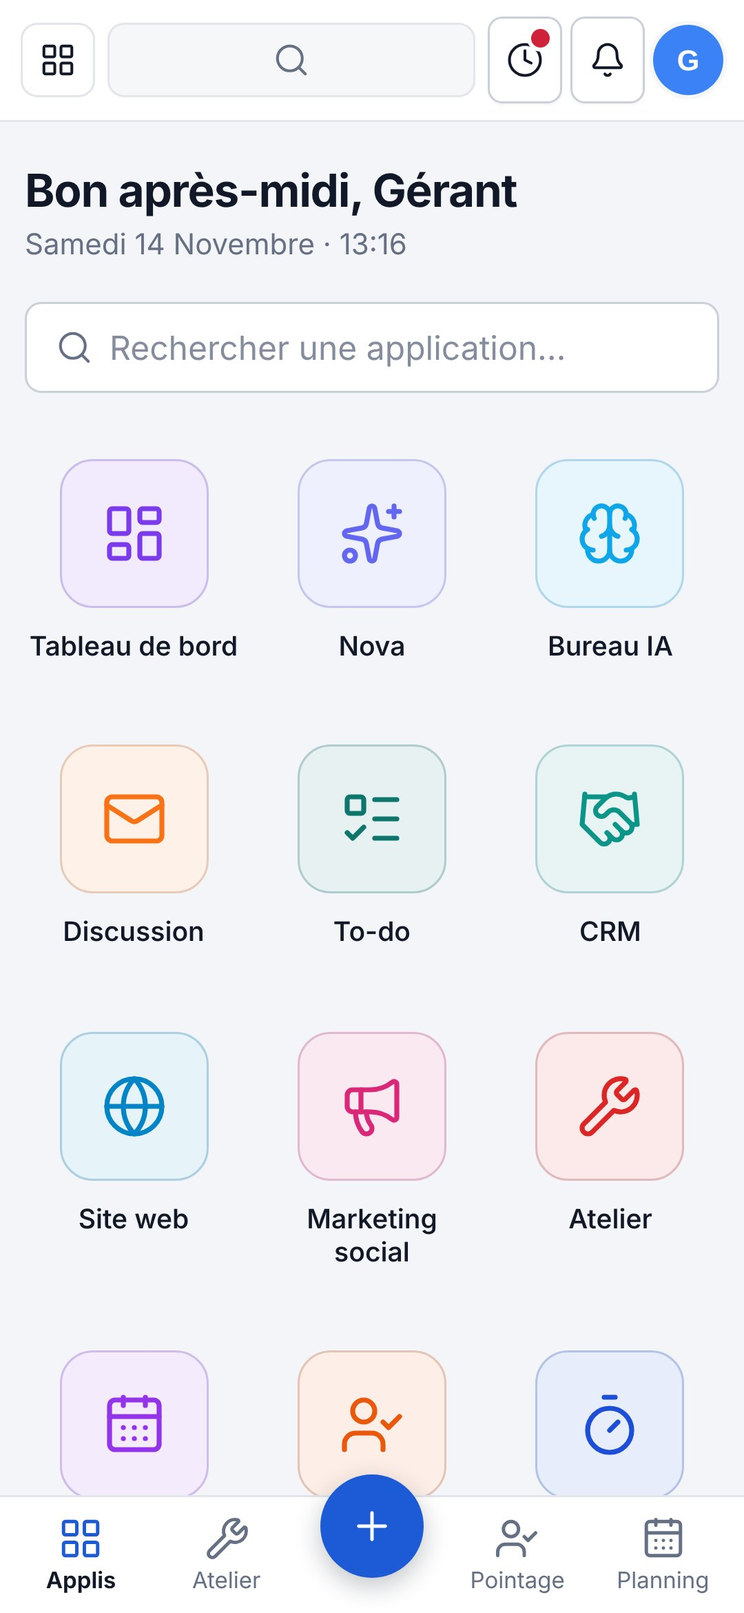
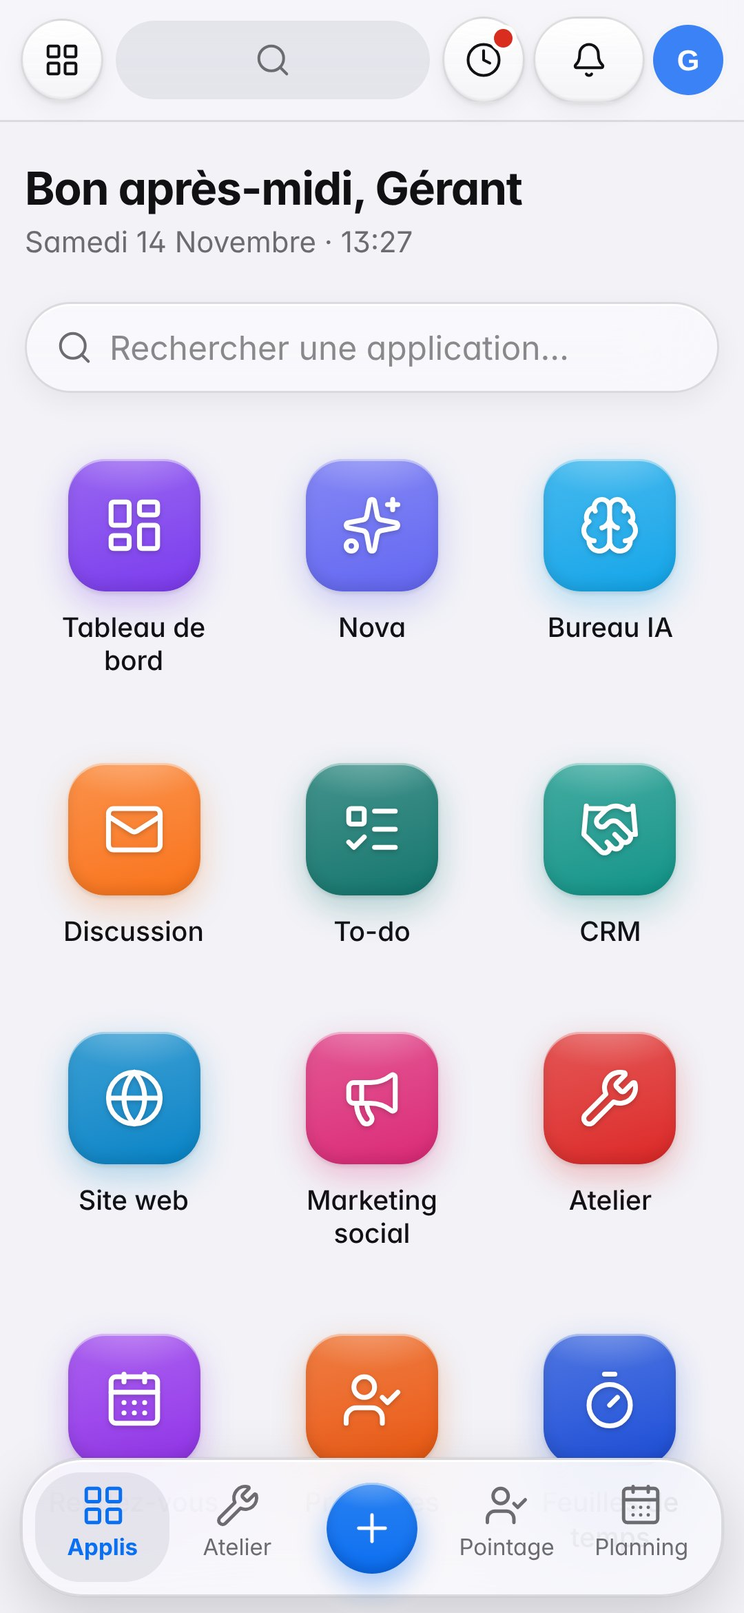
Rendu « iPhone » : boutons en goutte d'eau, menus et barres en verre
- couleurs du système iPhone (fond gris groupé, cartes blanches, bleu)
- boutons en pilule brillants (reflet en haut, ombre douce), boutons ronds
  pour les icônes ; bouton de l'assistant en goutte de verre
- barre du haut, menus déroulants, recherche et messages : verre dépoli
  flottant ; sur téléphone, barre d'onglets flottante
- onglets et choix en segments, interrupteurs verts
- menu des applications : icônes colorées comme sur l'écran d'accueil
- tablette de l'atelier : mêmes boutons, pavé du code PIN en touches rondes
- thème sombre assorti ; le thème « Verre » reste inchangé
- images de la fenêtre d'installation et README à jour

Claude-Session: https://claude.ai/code/session_017Kn8fTkEEiGP4ovVWuXnDD

diff --git a/public/css/app.css b/public/css/app.css
@@ -1,6 +1,6 @@
 /* =====================================================================
-   Garage Manager — design sobre et professionnel
-   Surfaces unies, une seule couleur d'accent, bordures fines, pas d'effets.
+   Garage Manager — design sobre, rendu « iPhone »
+   Fond uni, cartes blanches, un seul bleu ; boutons, barres et menus en verre liquide (voir plus bas).
    Thème clair par défaut, thème sombre disponible (data-theme) ;
    l'habillage « Verre » (data-skin="glass") est défini à part, en fin de fichier.
    ===================================================================== */
@@ -8,47 +8,56 @@
 @font-face { font-family: 'Space Grotesk'; font-style: normal; font-display: swap; font-weight: 300 700; src: url('/vendor/fonts/space-grotesk.woff2') format('woff2-variations'); }
 
 :root, :root[data-theme="light"] {
-  --bg: #f3f5f8; --bg-2: #e9edf2;
-  --panel: #ffffff; --panel-solid: #ffffff; --panel-2: #f6f7f9; --panel-hover: #eef1f5; --field: #ffffff; --btn-bg: #ffffff;
-  --ink: #111827; --ink-2: #374151; --muted: #667085; --line: #e2e6ec; --line-strong: #c9d0da; --soft: #f6f7f9;
-  --brand: #1d5bd6; --brand-2: #1d5bd6; --brand-3: #1d5bd6; --brand-ink: #ffffff; --brand-soft: rgba(29, 91, 214, .09);
-  --accent: #1d5bd6; --accent-hover: #174bb4; /* fond des boutons principaux (texte blanc) */
-  --link: #1a4fbd;
+  /* couleurs du système iPhone : fond gris « groupé », cartes blanches, bleu d'accent */
+  --bg: #f2f2f7; --bg-2: #e5e5ea;
+  --panel: #ffffff; --panel-solid: #ffffff; --panel-2: #f2f2f7; --panel-hover: #e9e9ee; --field: #ffffff; --btn-bg: #ffffff;
+  --ink: #111114; --ink-2: #3a3a3c; --muted: #6c6c70; --line: rgba(60, 60, 67, .14); --line-strong: rgba(60, 60, 67, .28); --soft: #f6f6f9;
+  --brand: #0a6ff0; --brand-2: #0a6ff0; --brand-3: #0a6ff0; --brand-ink: #ffffff; --brand-soft: rgba(10, 111, 240, .10);
+  --accent: #0a6ff0; --accent-hover: #0963d8; /* fond des boutons principaux (texte blanc) */
+  --link: #0066d6;
   --grad: linear-gradient(var(--accent), var(--accent));
-  --grad-soft: linear-gradient(rgba(29, 91, 214, .07), rgba(29, 91, 214, .07));
-  --ok: #15803d; --warn: #b45309; --bad: #d0213b;
-  --glow: 0 0 0 3px rgba(29, 91, 214, .16);
-  --shadow: 0 1px 2px rgba(16, 24, 40, .06);
-  --shadow-lg: 0 20px 48px rgba(16, 24, 40, .18), 0 2px 6px rgba(16, 24, 40, .08);
-  --radius: 10px; --radius-sm: 7px;
-  --side: #ffffff; --side-ink: #4b5563;
+  --grad-soft: linear-gradient(rgba(10, 111, 240, .07), rgba(10, 111, 240, .07));
+  --ok: #1f8a3b; --warn: #b45309; --bad: #d92d20;
+  --glow: 0 0 0 4px rgba(10, 111, 240, .18);
+  --shadow: 0 1px 2px rgba(0, 0, 0, .04), 0 6px 20px rgba(0, 0, 0, .04);
+  --shadow-lg: 0 24px 60px rgba(0, 0, 0, .18), 0 2px 8px rgba(0, 0, 0, .08);
+  --radius: 20px; --radius-sm: 12px;
+  --side: #ffffff; --side-ink: #3a3a3c;
   --aurora-1: transparent; --aurora-2: transparent; --aurora-3: transparent; --grid-line: transparent;
-  --b-gray: #eef1f6; --b-gray-i: #475569; --b-blue: #e0edff; --b-blue-i: #1a4fbd; --b-green: #dcfce7; --b-green-i: #166534;
-  --b-red: #ffe4e6; --b-red-i: #be123c; --b-orange: #ffedd5; --b-orange-i: #c2410c; --b-yellow: #fef3c7; --b-yellow-i: #92400e;
+  --b-gray: #ececf1; --b-gray-i: #48484a; --b-blue: #dbeafe; --b-blue-i: #0057b8; --b-green: #dcfce7; --b-green-i: #166534;
+  --b-red: #ffe4e1; --b-red-i: #b42318; --b-orange: #ffedd5; --b-orange-i: #c2410c; --b-yellow: #fef3c7; --b-yellow-i: #92400e;
   --b-purple: #ede9fe; --b-purple-i: #6d28d9; --b-teal: #ccfbf1; --b-teal-i: #0f766e;
-  --scrim: rgba(17, 24, 39, .45);
-  --font-display: 'Inter', system-ui, -apple-system, "Segoe UI", Roboto, sans-serif;
+  --scrim: rgba(0, 0, 0, .32);
+  /* verre liquide : reflet du haut, bord, ombre intérieure, flou */
+  --glass-hi: rgba(255, 255, 255, .96); --glass-lo: rgba(244, 244, 248, .88); --glass-shine: rgba(255, 255, 255, .95); --glass-edge: rgba(60, 60, 67, .16); --glass-shade: rgba(0, 0, 0, .06);
+  --glass-strong: rgba(250, 250, 252, .78); --bar: rgba(246, 246, 250, .74);
+  --glass-blur: blur(22px) saturate(1.8); --glass-blur-strong: blur(34px) saturate(1.9);
+  --seg: rgba(118, 118, 128, .13); --seg-on: #ffffff; --seg-off: rgba(120, 120, 128, .28);
+  --font-display: -apple-system, BlinkMacSystemFont, 'SF Pro Display', 'Inter', system-ui, "Segoe UI", Roboto, sans-serif;
   color-scheme: light;
 }
 :root[data-theme="dark"] {
-  --bg: #0f1216; --bg-2: #0b0d11;
-  --panel: #171b21; --panel-solid: #171b21; --panel-2: #1d222a; --panel-hover: #252b35; --field: #12161b; --btn-bg: #1d222a;
-  --ink: #e8eaee; --ink-2: #c6cbd3; --muted: #939cab; --line: #272d37; --line-strong: #3a4250; --soft: #1b2027;
-  --brand: #6ea3f7; --brand-2: #6ea3f7; --brand-3: #6ea3f7; --brand-ink: #0a1120; --brand-soft: rgba(110, 163, 247, .14);
-  --accent: #2f6bdb; --accent-hover: #3d78e6;
-  --link: #7fb0fa;
+  --bg: #0a0a0c; --bg-2: #000000;
+  --panel: #1c1c1e; --panel-solid: #1c1c1e; --panel-2: #2a2a2d; --panel-hover: #38383b; --field: #252528; --btn-bg: #2c2c2e;
+  --ink: #f5f5f7; --ink-2: #d1d1d6; --muted: #98989f; --line: rgba(255, 255, 255, .10); --line-strong: rgba(255, 255, 255, .22); --soft: #232326;
+  --brand: #4a9dff; --brand-2: #4a9dff; --brand-3: #4a9dff; --brand-ink: #04101f; --brand-soft: rgba(74, 157, 255, .16);
+  --accent: #0a6ff0; --accent-hover: #2b84ff;
+  --link: #5aa8ff;
   --grad: linear-gradient(var(--accent), var(--accent));
-  --grad-soft: linear-gradient(rgba(110, 163, 247, .10), rgba(110, 163, 247, .10));
-  --ok: #3fcf8e; --warn: #f0b64a; --bad: #f47184;
-  --glow: 0 0 0 3px rgba(110, 163, 247, .22);
-  --shadow: 0 1px 2px rgba(0, 0, 0, .4);
-  --shadow-lg: 0 24px 60px rgba(0, 0, 0, .6);
-  --side: #13171c; --side-ink: #aeb6c2;
-  --b-gray: rgba(148, 163, 184, .16); --b-gray-i: #cbd5e1; --b-blue: rgba(110, 163, 247, .16); --b-blue-i: #9cc2fb;
-  --b-green: rgba(52, 211, 153, .16); --b-green-i: #6ee7b7; --b-red: rgba(251, 113, 133, .16); --b-red-i: #fda4af;
-  --b-orange: rgba(251, 146, 60, .18); --b-orange-i: #fdba74; --b-yellow: rgba(250, 204, 21, .16); --b-yellow-i: #fde68a;
-  --b-purple: rgba(167, 139, 250, .18); --b-purple-i: #c4b5fd; --b-teal: rgba(45, 212, 191, .16); --b-teal-i: #5eead4;
-  --scrim: rgba(0, 0, 0, .6);
+  --grad-soft: linear-gradient(rgba(74, 157, 255, .10), rgba(74, 157, 255, .10));
+  --ok: #30d158; --warn: #ffb340; --bad: #ff6259;
+  --glow: 0 0 0 4px rgba(74, 157, 255, .26);
+  --shadow: 0 1px 2px rgba(0, 0, 0, .5);
+  --shadow-lg: 0 30px 70px rgba(0, 0, 0, .7);
+  --side: #131315; --side-ink: #c7c7cc;
+  --b-gray: rgba(152, 152, 159, .2); --b-gray-i: #d1d1d6; --b-blue: rgba(74, 157, 255, .18); --b-blue-i: #8fc2ff;
+  --b-green: rgba(48, 209, 88, .18); --b-green-i: #6ee7a0; --b-red: rgba(255, 98, 89, .18); --b-red-i: #ffa39e;
+  --b-orange: rgba(255, 159, 10, .2); --b-orange-i: #ffc266; --b-yellow: rgba(255, 214, 10, .18); --b-yellow-i: #ffe066;
+  --b-purple: rgba(191, 90, 242, .2); --b-purple-i: #dba6f7; --b-teal: rgba(64, 200, 224, .18); --b-teal-i: #7fdcee;
+  --scrim: rgba(0, 0, 0, .55);
+  --glass-hi: rgba(72, 72, 76, .92); --glass-lo: rgba(48, 48, 51, .92); --glass-shine: rgba(255, 255, 255, .16); --glass-edge: rgba(255, 255, 255, .14); --glass-shade: rgba(0, 0, 0, .35);
+  --glass-strong: rgba(38, 38, 41, .76); --bar: rgba(22, 22, 24, .72);
+  --seg: rgba(118, 118, 128, .26); --seg-on: #636366; --seg-off: rgba(120, 120, 128, .4);
   color-scheme: dark;
 }
 :root { font-family: 'Inter', system-ui, -apple-system, "Segoe UI", Roboto, sans-serif; font-size: 14px; color: var(--ink); font-feature-settings: 'cv11', 'ss01'; }
@@ -1020,17 +1029,17 @@ table.lines.no-disc .dcol { display: none; }
 .theme-check svg { width: 13px; height: 13px; }
 .theme-prev { position: relative; height: 110px; border-radius: 11px; overflow: hidden; display: flex; border: 1px solid var(--line); }
 .tp-half { position: relative; flex: 1; }
-.tp-dark { background: #0f1216; }
-.tp-light { background: #f3f5f8; }
+.tp-dark { background: #0a0a0c; }
+.tp-light { background: #f2f2f7; }
 .tpv-dark .tp-light, .tpv-light .tp-dark { display: none; }
 .tp-half i { position: absolute; display: block; border-radius: 5px; }
 .tp-bar { left: 0; right: 0; top: 0; height: 14px; border-radius: 0 !important; }
 .tp-side { left: 6px; top: 22px; bottom: 8px; width: 16%; }
 .tp-card { left: 26%; right: 8px; top: 22px; height: 34px; }
 .tp-card.b { top: 62px; height: 38px; right: 42%; }
-.tp-btn { right: 8px; top: 64px; width: 30%; height: 12px; border-radius: 4px !important; background: #1d5bd6; }
+.tp-btn { right: 8px; top: 64px; width: 30%; height: 12px; border-radius: 99px !important; background: #0a6ff0; }
 .tp-dark .tp-bar, .tp-dark .tp-side { background: rgba(255, 255, 255, .06); }
-.tp-dark .tp-card { background: #171b21; border: 1px solid #272d37; }
+.tp-dark .tp-card { background: #1c1c1e; border: 1px solid #2c2c2e; }
 .tp-light .tp-bar, .tp-light .tp-side { background: rgba(255, 255, 255, .8); }
 .tp-light .tp-card { background: #fff; box-shadow: 0 3px 10px rgba(30, 50, 100, .12); }
 @media (max-width: 700px) { .theme-picker { grid-template-columns: 1fr; } .theme-prev { height: 90px; } }
@@ -1390,6 +1399,167 @@ label.btn { display: inline-flex; gap: 6px; align-items: center; margin: 0; font
   :root:not([data-skin]) .modal, :root:not([data-skin]) .modal.wide, :root:not([data-skin]) .search-box { border-radius: 0; }
   :root:not([data-skin]) .modal-foot { border-radius: 0; }
   :root:not([data-skin]) table.stackable tr { border-radius: 8px; }
+}
+
+/* =====================================================================
+   Rendu « iPhone » (verre liquide) : boutons en pilule brillants comme une
+   goutte d'eau, barres et menus flottants translucides, onglets en
+   segments, interrupteurs verts. S'applique aux thèmes clair et sombre
+   (le thème « Verre » garde son propre habillage).
+   Le flou d'arrière-plan n'est utilisé que sur les barres, menus et
+   éléments flottants : les nombreux boutons d'une page restent légers.
+   ===================================================================== */
+:root:not([data-skin]) { font-family: -apple-system, BlinkMacSystemFont, 'SF Pro Text', 'Inter', system-ui, "Segoe UI", Roboto, sans-serif; }
+
+/* --- Boutons : pilules de verre --- */
+:root:not([data-skin]) .btn { border-radius: 999px; padding: 9px 17px; font-weight: 600; color: var(--ink); border: 1px solid var(--glass-edge);
+  background: radial-gradient(130% 90% at 50% -20%, var(--glass-shine), transparent 62%), linear-gradient(180deg, var(--glass-hi), var(--glass-lo));
+  box-shadow: inset 0 1px 0 var(--glass-shine), inset 0 -1px 1px var(--glass-shade), 0 1px 2px rgba(0, 0, 0, .07), 0 4px 12px rgba(0, 0, 0, .05);
+  transition: transform .16s cubic-bezier(.3, .7, .4, 1), box-shadow .16s, filter .16s; }
+:root:not([data-skin]) .btn:hover { background: radial-gradient(130% 90% at 50% -20%, var(--glass-shine), transparent 62%), linear-gradient(180deg, var(--glass-hi), var(--glass-lo)); filter: brightness(1.04); box-shadow: inset 0 1px 0 var(--glass-shine), inset 0 -1px 1px var(--glass-shade), 0 2px 4px rgba(0, 0, 0, .08), 0 8px 20px rgba(0, 0, 0, .08); }
+:root:not([data-skin]) .btn:active { transform: scale(.96); filter: brightness(.97); }
+:root:not([data-skin]) .btn.sm { border-radius: 999px; padding: 5px 12px; }
+:root:not([data-skin]) .btn.big { padding: 13px 22px; }
+:root:not([data-skin]) .btn.primary { color: #fff; border-color: color-mix(in srgb, var(--accent) 70%, #000 8%);
+  background: radial-gradient(130% 90% at 50% -25%, rgba(255, 255, 255, .42), transparent 60%), linear-gradient(180deg, color-mix(in srgb, var(--accent) 90%, #fff), var(--accent));
+  box-shadow: inset 0 1px 0 rgba(255, 255, 255, .5), inset 0 -2px 3px rgba(0, 30, 90, .22), 0 1px 2px rgba(0, 50, 130, .3), 0 6px 16px color-mix(in srgb, var(--accent) 34%, transparent); }
+:root:not([data-skin]) .btn.primary:hover { background: radial-gradient(130% 90% at 50% -25%, rgba(255, 255, 255, .42), transparent 60%), linear-gradient(180deg, color-mix(in srgb, var(--accent) 90%, #fff), var(--accent)); border-color: color-mix(in srgb, var(--accent) 70%, #000 8%); filter: brightness(1.06); box-shadow: inset 0 1px 0 rgba(255, 255, 255, .5), inset 0 -2px 3px rgba(0, 30, 90, .22), 0 2px 4px rgba(0, 50, 130, .3), 0 10px 24px color-mix(in srgb, var(--accent) 40%, transparent); }
+:root:not([data-skin]) .btn.success, :root:not([data-skin]) .won-btn { color: #fff; border-color: #1c7c35 !important;
+  background: radial-gradient(130% 90% at 50% -25%, rgba(255, 255, 255, .4), transparent 60%), linear-gradient(180deg, #2fa24f, #1f8a3b) !important;
+  box-shadow: inset 0 1px 0 rgba(255, 255, 255, .45), inset 0 -2px 3px rgba(0, 60, 20, .22), 0 6px 16px rgba(31, 138, 59, .28); }
+:root:not([data-skin]) .btn.success:hover { filter: brightness(1.06); }
+:root:not([data-skin]) .btn.danger { color: var(--bad); }
+:root:not([data-skin]) .btn.danger:hover { background: radial-gradient(130% 90% at 50% -20%, var(--glass-shine), transparent 62%), linear-gradient(180deg, var(--glass-hi), var(--glass-lo)); border-color: color-mix(in srgb, var(--bad) 45%, transparent); }
+:root:not([data-skin]) .btn:disabled { filter: none; transform: none; }
+/* boutons ronds (une seule icône) */
+:root:not([data-skin]) .apps-btn, :root:not([data-skin]) .theme-toggle, :root:not([data-skin]) .att-sys-btn { border-radius: 50%; width: 40px; height: 40px; padding: 0; justify-content: center; }
+:root:not([data-skin]) .apps-btn { border: 1px solid var(--glass-edge); background: radial-gradient(130% 90% at 50% -20%, var(--glass-shine), transparent 62%), linear-gradient(180deg, var(--glass-hi), var(--glass-lo)); box-shadow: inset 0 1px 0 var(--glass-shine), inset 0 -1px 1px var(--glass-shade), 0 1px 2px rgba(0, 0, 0, .07), 0 4px 12px rgba(0, 0, 0, .05); }
+:root:not([data-skin]) .icon-btn { border-radius: 50%; min-width: 30px; min-height: 30px; }
+:root:not([data-skin]) .wt-go { border-radius: 50%; }
+:root:not([data-skin]) .user-btn { border-radius: 50%; }
+
+/* --- Champs --- */
+:where(:root:not([data-skin])) input, :where(:root:not([data-skin])) select, :where(:root:not([data-skin])) textarea { border-radius: 12px; }
+:where(:root:not([data-skin])) input[type=checkbox] { border-radius: 4px; }
+:root:not([data-skin]) .search-trigger { border-radius: 999px; background: var(--seg); border-color: transparent; padding: 9px 15px; }
+:root:not([data-skin]) .home-search { border-radius: 999px; background: var(--glass-strong); backdrop-filter: var(--glass-blur); -webkit-backdrop-filter: var(--glass-blur); border-color: var(--glass-edge); box-shadow: inset 0 1px 0 var(--glass-shine), 0 4px 14px rgba(0, 0, 0, .06); }
+
+/* --- Barres : verre dépoli au-dessus du contenu qui défile --- */
+:root:not([data-skin]) .topbar { background: var(--bar); backdrop-filter: var(--glass-blur); -webkit-backdrop-filter: var(--glass-blur); border-bottom: 1px solid var(--line); }
+:root:not([data-skin]) .sidebar { background: var(--bar); backdrop-filter: var(--glass-blur); -webkit-backdrop-filter: var(--glass-blur); }
+:root:not([data-skin]) .sidebar nav a, :root:not([data-skin]) .sidebar nav a.active { border-radius: 12px; }
+/* menus d'une application : un contrôle segmenté */
+:root:not([data-skin]) .app-menus { background: var(--seg); border-radius: 999px; padding: 3px; gap: 1px; }
+:root:not([data-skin]) .app-menus a { border-radius: 999px; padding: 6px 13px; color: var(--ink-2); }
+:root:not([data-skin]) .app-menus a:hover { background: transparent; color: var(--ink); }
+:root:not([data-skin]) .app-menus a.active { background: var(--seg-on); color: var(--ink); font-weight: 600; box-shadow: 0 1px 3px rgba(0, 0, 0, .14), 0 0 0 .5px rgba(0, 0, 0, .05); }
+:root:not([data-skin]) .app-mini { border-radius: 9px; background: linear-gradient(160deg, color-mix(in srgb, var(--c1) 80%, #fff), var(--c1)); box-shadow: inset 0 1px 0 rgba(255, 255, 255, .35); }
+
+/* --- Onglets, segments, puces --- */
+:root:not([data-skin]) .tabs { display: inline-flex; max-width: 100%; border-bottom: 0; background: var(--seg); border-radius: 12px; padding: 3px; gap: 2px; }
+:root:not([data-skin]) .tabs button { border: 0; border-radius: 9px; margin: 0; padding: 7px 14px; color: var(--ink-2); }
+:root:not([data-skin]) .tabs button.active { background: var(--seg-on); color: var(--ink); border: 0; border-image: none; font-weight: 600; box-shadow: 0 1px 3px rgba(0, 0, 0, .14), 0 0 0 .5px rgba(0, 0, 0, .05); }
+:root:not([data-skin]) .seg { border: 0; background: var(--seg); border-radius: 10px; padding: 2px; gap: 2px; overflow: visible; }
+:root:not([data-skin]) .seg button { border-radius: 8px; color: var(--ink-2); }
+:root:not([data-skin]) .seg button.on { background: var(--seg-on); color: var(--ink); box-shadow: 0 1px 3px rgba(0, 0, 0, .14), 0 0 0 .5px rgba(0, 0, 0, .05); }
+:root:not([data-skin]) .wt-chips { background: var(--seg); border-radius: 999px; padding: 2px; gap: 2px; }
+:root:not([data-skin]) .wt-chips button { border: 0; background: transparent; color: var(--ink-2); }
+:root:not([data-skin]) .wt-chips button.on { background: var(--seg-on); color: var(--ink); box-shadow: 0 1px 3px rgba(0, 0, 0, .14), 0 0 0 .5px rgba(0, 0, 0, .05); }
+:root:not([data-skin]) .st-targets button { border-color: transparent; background: var(--seg); color: var(--ink-2); }
+:root:not([data-skin]) .st-targets button.on { background: var(--accent); color: #fff; }
+:root:not([data-skin]) .st-targets button.on .badge { background: rgba(255, 255, 255, .25); color: #fff; }
+:root:not([data-skin]) .stepper a, :root:not([data-skin]) .stepper span { border-color: transparent; background: var(--seg); }
+:root:not([data-skin]) .stepper .cur { background: var(--accent); color: #fff; }
+
+/* --- Interrupteurs comme sur iPhone --- */
+:root:not([data-skin]) .switch { width: 51px; height: 31px; }
+:root:not([data-skin]) .switch i { background: var(--seg-off); transition: background .25s; }
+:root:not([data-skin]) .switch i::after { top: 2px; left: 2px; width: 27px; height: 27px; box-shadow: 0 3px 8px rgba(0, 0, 0, .15), 0 1px 1px rgba(0, 0, 0, .16), 0 0 0 .5px rgba(0, 0, 0, .04); transition: transform .25s cubic-bezier(.3, .7, .4, 1); }
+:root:not([data-skin]) .switch input:checked + i { background: #34c759; }
+:root:not([data-skin]) .switch input:checked + i::after { transform: translateX(20px); }
+
+/* --- Cartes --- */
+:root:not([data-skin]) .card, :root:not([data-skin]) .kpi { border-radius: var(--radius); border-color: transparent; box-shadow: var(--shadow); }
+:root:not([data-skin]) .kcol { border-radius: 20px; border-color: transparent; }
+:root:not([data-skin]) .kcard { border-radius: 14px; }
+:root:not([data-skin]) .brief { border-left: 0; }
+:root:not([data-skin]) th:first-child { border-top-left-radius: 12px; border-bottom-left-radius: 12px; } :root:not([data-skin]) th:last-child { border-top-right-radius: 12px; border-bottom-right-radius: 12px; }
+:root:not([data-skin]) th { border-bottom-color: transparent; }
+
+/* --- Menus et fenêtres : feuilles de verre flottantes --- */
+:root:not([data-skin]) .dropdown, :root:not([data-skin]) .picker-list { background: var(--glass-strong); backdrop-filter: var(--glass-blur-strong); -webkit-backdrop-filter: var(--glass-blur-strong); border: 1px solid var(--glass-edge); border-radius: 18px; padding: 6px; box-shadow: inset 0 1px 0 var(--glass-shine), 0 18px 50px rgba(0, 0, 0, .2), 0 0 0 .5px rgba(0, 0, 0, .06); }
+:root:not([data-skin]) .dropdown a, :root:not([data-skin]) .picker-list div { border-radius: 12px; padding: 10px 12px; }
+:root:not([data-skin]) .dropdown a:hover { background: var(--seg); }
+:root:not([data-skin]) .picker-list div.hi, :root:not([data-skin]) .picker-list div:hover { background: var(--accent); color: #fff; }
+:root:not([data-skin]) .modal-bg { backdrop-filter: blur(10px) saturate(1.2); -webkit-backdrop-filter: blur(10px) saturate(1.2); }
+:root:not([data-skin]) .modal { border-radius: 26px; border-color: var(--glass-edge); box-shadow: var(--shadow-lg); }
+:root:not([data-skin]) .modal-foot { border-radius: 0 0 26px 26px; background: transparent; }
+:root:not([data-skin]) .search-box { border-radius: 24px; background: var(--glass-strong); backdrop-filter: var(--glass-blur-strong); -webkit-backdrop-filter: var(--glass-blur-strong); border: 1px solid var(--glass-edge); }
+:root:not([data-skin]) .sr { border-radius: 12px; }
+:root:not([data-skin]) .toast { border-radius: 18px; border: 1px solid var(--glass-edge); border-left: 1px solid var(--glass-edge); background: var(--glass-strong); backdrop-filter: var(--glass-blur-strong); -webkit-backdrop-filter: var(--glass-blur-strong); box-shadow: inset 0 1px 0 var(--glass-shine), 0 12px 34px rgba(0, 0, 0, .18); padding: 12px 16px 12px 34px; position: relative; }
+:root:not([data-skin]) .toast::before { content: ''; position: absolute; left: 14px; top: 50%; width: 10px; height: 10px; margin-top: -5px; border-radius: 50%; background: #34c759; }
+:root:not([data-skin]) .toast.error::before { background: #ff3b30; }
+:root:not([data-skin]) .login-card { border-radius: 28px; border-color: var(--glass-edge); }
+:root:not([data-skin]) .login-logo { border-radius: 18px; background: radial-gradient(130% 90% at 50% -25%, rgba(255, 255, 255, .45), transparent 60%), linear-gradient(180deg, color-mix(in srgb, var(--accent) 88%, #fff), var(--accent)); box-shadow: inset 0 1px 0 rgba(255, 255, 255, .5), 0 8px 20px color-mix(in srgb, var(--accent) 35%, transparent); }
+:root:not([data-skin]) .brand-logo { border-radius: 11px; background: linear-gradient(180deg, color-mix(in srgb, var(--accent) 88%, #fff), var(--accent)); box-shadow: inset 0 1px 0 rgba(255, 255, 255, .45); }
+:root:not([data-skin]) .install-hint { border-radius: 20px; }
+:root:not([data-skin]) .badge { border-radius: 999px; }
+:root:not([data-skin]) .dropzone, :root:not([data-skin]) .st-zone, :root:not([data-skin]) .st-edit, :root:not([data-skin]) .st-item { border-radius: 16px; }
+
+/* --- Assistant : une goutte de verre --- */
+:root:not([data-skin]) .copilot-orb { width: 56px; height: 56px; border: 1px solid rgba(255, 255, 255, .55);
+  background: radial-gradient(circle at 32% 24%, rgba(255, 255, 255, .95), rgba(255, 255, 255, .25) 30%, transparent 55%), linear-gradient(160deg, color-mix(in srgb, var(--accent) 70%, #fff), var(--accent));
+  box-shadow: inset 0 1px 1px rgba(255, 255, 255, .8), inset 0 -8px 14px rgba(0, 30, 110, .28), 0 2px 4px rgba(0, 40, 120, .25), 0 12px 30px color-mix(in srgb, var(--accent) 42%, transparent); transition: transform .2s cubic-bezier(.3, .7, .4, 1); }
+:root:not([data-skin]) .copilot-orb:hover { transform: scale(1.06); background: radial-gradient(circle at 32% 24%, rgba(255, 255, 255, .95), rgba(255, 255, 255, .25) 30%, transparent 55%), linear-gradient(160deg, color-mix(in srgb, var(--accent) 70%, #fff), var(--accent)); }
+:root:not([data-skin]) .copilot-orb:active { transform: scale(.95); }
+:root:not([data-skin]) .copilot-orb .icon { filter: drop-shadow(0 1px 1px rgba(0, 30, 100, .4)); }
+:root:not([data-skin]) .copilot-orb.listening { background: radial-gradient(circle at 32% 24%, rgba(255, 255, 255, .95), rgba(255, 255, 255, .25) 30%, transparent 55%), linear-gradient(160deg, #ff7a70, #ff3b30); }
+:root:not([data-skin]) .copilot-panel { border-radius: 26px; border-color: var(--glass-edge); }
+:root:not([data-skin]) .mini-orb { background: radial-gradient(circle at 32% 24%, rgba(255, 255, 255, .9), transparent 50%), linear-gradient(160deg, color-mix(in srgb, var(--accent) 65%, #fff), var(--accent)); color: #fff; box-shadow: inset 0 -3px 6px rgba(0, 30, 110, .25); }
+:root:not([data-skin]) .mic { box-shadow: inset 0 1px 0 var(--glass-shine); }
+
+/* --- Menu des applications : icônes comme sur l'écran d'accueil d'un iPhone --- */
+:root:not([data-skin]) .app-icon { width: 76px; height: 76px; border-radius: 22px; border: 0;
+  background: radial-gradient(120% 80% at 50% -20%, rgba(255, 255, 255, .38), transparent 60%), linear-gradient(165deg, color-mix(in srgb, var(--c1) 78%, #fff), var(--c1));
+  box-shadow: inset 0 1px 0 rgba(255, 255, 255, .45), inset 0 -3px 6px rgba(0, 0, 0, .1), 0 6px 16px color-mix(in srgb, var(--c1) 28%, transparent), 0 1px 2px rgba(0, 0, 0, .12); transition: transform .18s cubic-bezier(.3, .7, .4, 1), box-shadow .18s; }
+:root:not([data-skin]) .app-icon .icon, :root:not([data-skin]) .app-icon svg { color: #fff; width: 36px; height: 36px; stroke-width: 1.9; filter: drop-shadow(0 1px 1px rgba(0, 0, 0, .18)); }
+:root:not([data-skin]) .app-tile:hover .app-icon { transform: scale(1.06); border: 0; box-shadow: inset 0 1px 0 rgba(255, 255, 255, .45), inset 0 -3px 6px rgba(0, 0, 0, .1), 0 12px 26px color-mix(in srgb, var(--c1) 36%, transparent), 0 1px 2px rgba(0, 0, 0, .12); }
+:root:not([data-skin]) .app-tile:active .app-icon { transform: scale(.94); filter: brightness(.92); }
+:root:not([data-skin]) .home.custom .app-icon { background: radial-gradient(120% 80% at 50% -20%, rgba(255, 255, 255, .38), transparent 60%), linear-gradient(165deg, color-mix(in srgb, var(--c1) 78%, #fff), var(--c1)); }
+
+/* --- Présences : gros bouton rond brillant --- */
+:root:not([data-skin]) .att-btn.in { background: radial-gradient(120% 80% at 50% -15%, rgba(255, 255, 255, .5), transparent 58%), linear-gradient(180deg, #3bc45f, #1f8a3b); box-shadow: inset 0 2px 1px rgba(255, 255, 255, .5), inset 0 -10px 18px rgba(0, 60, 20, .25), 0 14px 34px rgba(31, 138, 59, .35); }
+:root:not([data-skin]) .att-btn.out { background: radial-gradient(120% 80% at 50% -15%, rgba(255, 255, 255, .5), transparent 58%), linear-gradient(180deg, #ff6a5e, #d92d20); box-shadow: inset 0 2px 1px rgba(255, 255, 255, .5), inset 0 -10px 18px rgba(110, 10, 0, .25), 0 14px 34px rgba(217, 45, 32, .35); }
+:root:not([data-skin]) .att-btn:hover { transform: scale(1.03); filter: none; }
+:root:not([data-skin]) .att-btn:active { transform: scale(.96); }
+:root:not([data-skin]) .att-btn.sm { border-radius: 999px; box-shadow: inset 0 1px 0 rgba(255, 255, 255, .45); }
+:root:not([data-skin]) .att-stats div { border-radius: 16px; border-color: transparent; background: var(--seg); }
+
+/* --- Téléphone : barre d'onglets flottante en verre, comme sur iPhone --- */
+@media (max-width: 800px) {
+  :root:not([data-skin]) body { padding-bottom: calc(86px + env(safe-area-inset-bottom)); }
+  :root:not([data-skin]) .bottom-nav { left: 10px; right: 10px; bottom: calc(8px + env(safe-area-inset-bottom)); padding: 6px 6px; border-radius: 30px; border: 1px solid var(--glass-edge);
+    background: var(--glass-strong); backdrop-filter: var(--glass-blur-strong); -webkit-backdrop-filter: var(--glass-blur-strong);
+    box-shadow: inset 0 1px 0 var(--glass-shine), 0 10px 30px rgba(0, 0, 0, .16), 0 0 0 .5px rgba(0, 0, 0, .05); }
+  :root:not([data-skin]) .bottom-nav a { border-radius: 22px; padding: 5px 0 4px; }
+  :root:not([data-skin]) .bottom-nav a.active { color: var(--brand); background: var(--seg); }
+  :root:not([data-skin]) .bottom-nav a.active .icon { color: var(--brand); }
+  :root:not([data-skin]) .bottom-nav a.plus .plus-btn { margin-top: 0; width: 44px; height: 44px; border-radius: 50%;
+    background: radial-gradient(130% 90% at 50% -25%, rgba(255, 255, 255, .45), transparent 60%), linear-gradient(180deg, color-mix(in srgb, var(--accent) 88%, #fff), var(--accent));
+    box-shadow: inset 0 1px 0 rgba(255, 255, 255, .5), inset 0 -3px 5px rgba(0, 30, 90, .22), 0 6px 14px color-mix(in srgb, var(--accent) 36%, transparent); }
+  :root:not([data-skin]) .plus-menu { backdrop-filter: blur(8px); -webkit-backdrop-filter: blur(8px); }
+  :root:not([data-skin]) .plus-menu > div { bottom: calc(92px + env(safe-area-inset-bottom)); border-radius: 26px; background: var(--glass-strong); backdrop-filter: var(--glass-blur-strong); -webkit-backdrop-filter: var(--glass-blur-strong); border: 1px solid var(--glass-edge); }
+  :root:not([data-skin]) .plus-menu a { border-radius: 18px; border-color: transparent; background: var(--seg); }
+  :root:not([data-skin]) .toasts { bottom: calc(96px + env(safe-area-inset-bottom)); }
+  :root:not([data-skin]) .copilot-orb { width: 52px; height: 52px; bottom: calc(96px + env(safe-area-inset-bottom)); }
+  :root:not([data-skin]) .save-fab { bottom: calc(100px + env(safe-area-inset-bottom)); border-radius: 999px; }
+  :root:not([data-skin]) .card { border-radius: 18px; }
+  :root:not([data-skin]) .modal, :root:not([data-skin]) .modal.wide, :root:not([data-skin]) .search-box { border-radius: 0; }
+  :root:not([data-skin]) .modal-foot { border-radius: 0; background: var(--panel-solid); }
+  :root:not([data-skin]) table.stackable tr { border-radius: 16px; border-color: transparent; background: var(--seg); }
+  :root:not([data-skin]) .tabs { display: flex; }
+  :root:not([data-skin]) .app-icon { width: 64px; height: 64px; border-radius: 18px; }
+  :root:not([data-skin]) .app-icon .icon, :root:not([data-skin]) .app-icon svg { width: 30px; height: 30px; }
 }
 
 /* =====================================================================

diff --git a/public/css/kiosk.css b/public/css/kiosk.css
@@ -120,3 +120,49 @@ body.kiosk::before, body.kiosk::after { display: none; }
 [data-theme="light"] .k-timer { color: #15803d; }
 /* Téléphone peu haut (iPhone 13 en navigateur…) : le clavier du code PIN tient sans défiler */
 @media (max-height: 760px) { .k-pad { gap: 8px; } .k-pad button { height: 56px; font-size: 24px; } }
+
+/* =====================================================================
+   Rendu « iPhone » de la tablette : boutons en pilule brillants, pavé du
+   code PIN en touches rondes, gros bouton d'arrivée / départ en goutte.
+   ===================================================================== */
+body.kiosk { font-family: -apple-system, BlinkMacSystemFont, 'SF Pro Text', 'Inter', system-ui, "Segoe UI", Roboto, sans-serif; background: #0a0a0c; }
+[data-theme="light"] body.kiosk { background: #f2f2f7; }
+.k-user, .k-att, .k-status, .k-order { border-radius: 24px; border-width: 1px; background: #1c1c1e; border-color: rgba(255, 255, 255, .1); }
+[data-theme="light"] .k-user, [data-theme="light"] .k-att, [data-theme="light"] .k-status, [data-theme="light"] .k-order { border-color: transparent; box-shadow: 0 1px 2px rgba(0, 0, 0, .04), 0 6px 20px rgba(0, 0, 0, .05); }
+.k-order.mine { border-color: rgba(255, 255, 255, .22); } [data-theme="light"] .k-order.mine { border-color: rgba(60, 60, 67, .2); }
+.k-order.active, [data-theme="light"] .k-order.active { border: 2px solid #34c759; }
+.k-status.working { border-color: #34c759; box-shadow: 0 0 0 3px rgba(52, 199, 89, .22); }
+.k-btn { border-radius: 999px; padding: 16px 24px; border: 1px solid rgba(255, 255, 255, .14);
+  background: radial-gradient(130% 90% at 50% -20%, rgba(255, 255, 255, .18), transparent 62%), linear-gradient(180deg, #4a4a4e, #323235);
+  box-shadow: inset 0 1px 0 rgba(255, 255, 255, .18), inset 0 -2px 3px rgba(0, 0, 0, .3), 0 4px 12px rgba(0, 0, 0, .25); transition: transform .15s cubic-bezier(.3, .7, .4, 1), filter .15s; }
+.k-btn:active { transform: scale(.95); filter: brightness(.95); }
+.k-btn.sm { border-radius: 999px; padding: 10px 16px; }
+[data-theme="light"] .k-btn:not(.green):not(.red):not(.blue):not(.orange) { border-color: rgba(60, 60, 67, .16); color: #111114;
+  background: radial-gradient(130% 90% at 50% -20%, rgba(255, 255, 255, .95), transparent 62%), linear-gradient(180deg, #ffffff, #ececf1);
+  box-shadow: inset 0 1px 0 rgba(255, 255, 255, .95), inset 0 -1px 1px rgba(0, 0, 0, .06), 0 1px 2px rgba(0, 0, 0, .07), 0 4px 12px rgba(0, 0, 0, .06); }
+.k-btn.green, .k-btn.red, .k-btn.blue, .k-btn.orange { border-color: rgba(0, 0, 0, .12); box-shadow: inset 0 1px 0 rgba(255, 255, 255, .45), inset 0 -2px 4px rgba(0, 0, 0, .2), 0 6px 16px rgba(0, 0, 0, .18); }
+.k-btn.green { background: radial-gradient(130% 90% at 50% -25%, rgba(255, 255, 255, .42), transparent 60%), linear-gradient(180deg, #34b455, #1f8a3b); }
+.k-btn.red { background: radial-gradient(130% 90% at 50% -25%, rgba(255, 255, 255, .42), transparent 60%), linear-gradient(180deg, #f2554a, #c9271b); }
+.k-btn.blue { background: radial-gradient(130% 90% at 50% -25%, rgba(255, 255, 255, .42), transparent 60%), linear-gradient(180deg, #2b84ff, #0a6ff0); }
+.k-btn.orange { background: radial-gradient(130% 90% at 50% -25%, rgba(255, 255, 255, .42), transparent 60%), linear-gradient(180deg, #f08a2c, #c2590c); }
+.k-go { min-width: 54px; min-height: 54px; padding: 0; border-radius: 50%; }
+.k-big.in { background: radial-gradient(120% 80% at 50% -15%, rgba(255, 255, 255, .5), transparent 58%), linear-gradient(180deg, #3bc45f, #1f8a3b); box-shadow: inset 0 2px 1px rgba(255, 255, 255, .5), inset 0 -12px 20px rgba(0, 60, 20, .25), 0 16px 38px rgba(31, 138, 59, .38); }
+.k-big.out { background: radial-gradient(120% 80% at 50% -15%, rgba(255, 255, 255, .5), transparent 58%), linear-gradient(180deg, #ff6a5e, #d92d20); box-shadow: inset 0 2px 1px rgba(255, 255, 255, .5), inset 0 -12px 20px rgba(110, 10, 0, .25), 0 16px 38px rgba(217, 45, 32, .38); }
+.k-big { transition: transform .18s cubic-bezier(.3, .7, .4, 1); } .k-big:active { transform: scale(.94); }
+/* pavé du code : touches rondes comme l'écran de code d'un iPhone */
+.k-pad { justify-items: center; gap: 14px 12px; }
+.k-pad button { width: 78px; height: 78px; border-radius: 50%; background: rgba(120, 120, 128, .32); font-weight: 500; transition: background .15s, transform .15s; }
+.k-pad button:active { background: rgba(160, 160, 168, .6); color: #fff; transform: scale(.94); }
+.k-pad button.ok { background: radial-gradient(130% 90% at 50% -25%, rgba(255, 255, 255, .42), transparent 60%), linear-gradient(180deg, #2b84ff, #0a6ff0); box-shadow: inset 0 1px 0 rgba(255, 255, 255, .45), 0 6px 16px rgba(10, 111, 240, .35); }
+[data-theme="light"] .k-pad button { background: rgba(118, 118, 128, .16); box-shadow: none; color: #111114; }
+[data-theme="light"] .k-pad button:active { background: rgba(118, 118, 128, .36); color: #111114; }
+[data-theme="light"] .k-pad button.ok { color: #fff; background: radial-gradient(130% 90% at 50% -25%, rgba(255, 255, 255, .42), transparent 60%), linear-gradient(180deg, #2b84ff, #0a6ff0); box-shadow: inset 0 1px 0 rgba(255, 255, 255, .45), 0 6px 16px rgba(10, 111, 240, .35); }
+.k-dots span.on { background: #0a6ff0; border-color: #0a6ff0; }
+.k-stats div { border-radius: 18px; } [data-theme="light"] .k-stats div { background: rgba(118, 118, 128, .1); }
+.k-search, .k-order textarea, .k-order input { border-radius: 14px; }
+.k-line .box { border-radius: 50%; } .k-line.done .box { background: #34c759; border-color: #34c759; }
+.k-line.running { border-radius: 16px; }
+.k-info { border-radius: 22px; background: rgba(30, 58, 138, .92); backdrop-filter: blur(20px) saturate(1.8); -webkit-backdrop-filter: blur(20px) saturate(1.8); border-color: rgba(255, 255, 255, .25); }
+[data-theme="light"] .k-info { background: rgba(30, 58, 138, .92); }
+.k-greet.in { background: linear-gradient(180deg, #2fa24f, #166534); } .k-greet.out { background: linear-gradient(180deg, #3b5fd6, #1e3a8a); }
+@media (max-height: 760px) { .k-pad { gap: 10px 8px; } .k-pad button { width: 64px; height: 64px; font-size: 24px; } }

diff --git a/public/js/theme.js b/public/js/theme.js
@@ -15,7 +15,7 @@ function apply() {
   theme.active = resolve(theme.pref);
   document.documentElement.dataset.theme = theme.active;
   if (theme.pref === 'glass') document.documentElement.dataset.skin = 'glass'; else delete document.documentElement.dataset.skin;
-  document.querySelector('meta[name="theme-color"]')?.setAttribute('content', theme.pref === 'glass' ? '#2b241f' : theme.active === 'light' ? '#f3f5f8' : '#0f1216');
+  document.querySelector('meta[name="theme-color"]')?.setAttribute('content', theme.pref === 'glass' ? '#2b241f' : theme.active === 'light' ? '#f2f2f7' : '#0a0a0c');
 }
 export function setTheme(pref) {
   theme.pref = PREFS.includes(pref) ? pref : 'light';
@@ -30,8 +30,8 @@ media?.addEventListener?.('change', () => { if (theme.pref === 'auto') apply(); 
 apply();
 
 export const THEMES = [
-  { id: 'light', name: 'Clair', desc: 'Sobre et net, comme un logiciel de bureau', icon: 'sun' },
-  { id: 'dark', name: 'Sombre', desc: 'Les mêmes écrans sur fond foncé, reposant le soir', icon: 'moon' },
+  { id: 'light', name: 'Clair', desc: 'Clair et net, boutons et menus comme sur iPhone', icon: 'sun' },
+  { id: 'dark', name: 'Sombre', desc: 'Le même rendu sur fond noir, reposant le soir', icon: 'moon' },
   { id: 'glass', name: 'Verre', desc: 'Panneaux en verre dépoli sur une photo, comme visionOS', icon: 'sparkles' },
   { id: 'auto', name: 'Automatique', desc: 'Suit le réglage de votre téléphone ou ordinateur', icon: 'monitor-smartphone' },
 ];

diff --git a/public/installer.html b/public/installer.html
@@ -4,7 +4,7 @@
   <meta charset="utf-8">
   <meta name="viewport" content="width=device-width, initial-scale=1, viewport-fit=cover">
   <title>Installer l'application</title>
-  <meta name="theme-color" content="#f3f5f8">
+  <meta name="theme-color" content="#f2f2f7">
   <link rel="manifest" id="manifest" href="/manifest.webmanifest" crossorigin="use-credentials">
   <script>
     // Quelle application installer : le logiciel (par défaut) ou le kiosque de pointage de l'atelier

diff --git a/public/index.html b/public/index.html
@@ -4,7 +4,7 @@
   <meta charset="utf-8">
   <meta name="viewport" content="width=device-width, initial-scale=1, viewport-fit=cover">
   <title>Garage Manager</title>
-  <meta name="theme-color" content="#f3f5f8">
+  <meta name="theme-color" content="#f2f2f7">
   <link rel="manifest" href="/manifest.webmanifest" crossorigin="use-credentials">
   <link rel="apple-touch-icon" href="/icons/apple-touch-icon.png">
   <meta name="apple-mobile-web-app-capable" content="yes">

diff --git a/public/kiosk.html b/public/kiosk.html
@@ -4,7 +4,7 @@
   <meta charset="utf-8">
   <meta name="viewport" content="width=device-width, initial-scale=1, viewport-fit=cover">
   <title>Pointage atelier</title>
-  <meta name="theme-color" content="#f3f5f8">
+  <meta name="theme-color" content="#f2f2f7">
   <link rel="manifest" href="/kiosk.webmanifest" crossorigin="use-credentials">
   <link rel="apple-touch-icon" href="/icons/apple-touch-icon.png">
   <meta name="apple-mobile-web-app-capable" content="yes">

diff --git a/README.md b/README.md
@@ -24,7 +24,7 @@ Logiciel complet de gestion de garage automobile (pensé pour le Luxembourg), in
 | 📥 **Factures fournisseurs par e-mail + IA** | Transférez les factures à une adresse dédiée (ou déposez PDF / photos) : l'IA lit le document, retrouve ou crée le fournisseur, reconnaît vos articles, propose le compte de charge et la TVA, vérifie le total et signale les doublons. Le **document original reste en pièce jointe** et s'affiche à côté de la facture pour la vérification, comme dans Odoo |
 | 📱 **PC, tablette et téléphone** | Interface adaptée à chaque écran : menu à icônes sur tablette, barre de navigation en bas et bouton ＋ sur téléphone, listes en fiches, planning jour par jour, déplacement des OR au doigt. **Installable comme une application** (icône sur l'écran d'accueil). Menu « 📱 Sur téléphone / tablette » : QR code pour ouvrir le logiciel sur le réseau du garage |
 | 🧠 **Nova — copilote IA qui écoute** | Bouton lumineux en bas à droite, sur toutes les pages. **Parlez-lui** (micro) ou écrivez : « rappelle-moi demain 9h d'appeler le fournisseur », « mets Muller jeudi 14h pour les pneus », « combien j'ai encaissé cette semaine ? » — elle **agit** (activités, rendez-vous, notes) avec vos vraies données et **répond à voix haute**. Mode **« écoute de la journée »** : tout ce que vous dites est noté dans le journal (dites « Nova, … » pour lui donner un ordre). Chaque soir (18:30 par défaut) elle fait le **résumé de fin de journée** (argent, atelier, mécaniciens, clients, stock, ce que vous avez dit) et **planifie automatiquement les priorités** du lendemain en activités 🧠. Résumé aussi envoyé par e-mail si souhaité |
-| 🎨 **Design sobre et professionnel** | Thème **clair** par défaut : fond gris clair uni, cartes blanches, bordures fines, une seule couleur d'accent (bleu), icônes au trait à la place des émojis, pas d'effets (ni dégradé, ni lueur, ni fond animé). Thème **sombre** assorti, thème **Verre** inspiré de visionOS (panneaux en verre dépoli sur une photo floutée — votre photo de fond si vous en avez mis une), plus un mode **automatique** qui suit le réglage du téléphone ou de l'ordinateur. Changement d'un clic (bouton lune/soleil en haut, ou menu du compte → Apparence, avec aperçus), aussi sur la page de connexion et la tablette de l'atelier. Le choix est gardé sur chaque appareil |
+| 🎨 **Design sobre, rendu « iPhone »** | Thème **clair** par défaut : fond gris clair uni, cartes blanches arrondies, un seul bleu, icônes au trait à la place des émojis. **Boutons et menus comme sur iPhone** (« verre liquide ») : boutons en pilule brillants comme une goutte d'eau, barre du haut et menus flottants en verre dépoli, barre d'onglets flottante sur téléphone, onglets en segments, interrupteurs verts, icônes d'applications comme sur l'écran d'accueil, pavé du code PIN en touches rondes sur la tablette. Thème **sombre** assorti, thème **Verre** inspiré de visionOS (panneaux en verre dépoli sur une photo floutée — votre photo de fond si vous en avez mis une), plus un mode **automatique** qui suit le réglage du téléphone ou de l'ordinateur. Changement d'un clic (bouton lune/soleil en haut, ou menu du compte → Apparence, avec aperçus), aussi sur la page de connexion et la tablette de l'atelier. Le choix est gardé sur chaque appareil |
 | 🟦 **Menu des applications (comme Odoo)** | Après la connexion : grille d'applications (Atelier, Ventes, Contacts, Parc automobile, Inventaire, Achats, Banque, Comptabilité, Présences, Rendez-vous, To-do, Discussion, IA…) sur un fond personnalisable (photo du garage). Dans chaque application, barre du haut avec ses sous-menus ; bouton ▦ pour revenir au menu. Filtrer en tapant le nom. La barre latérale reste disponible (menu du compte) |
 | 🔐 **Utilisateurs & droits d'accès (comme Odoo)** | Paramètres → Utilisateurs & accès : **inviter** quelqu'un par lien ou e-mail (il choisit son mot de passe), types Administrateur / Utilisateur interne / Mécanicien (kiosque), et pour chaque application : **Aucun accès, Lecture seule, Utilisateur, Administrateur**. Modèles prêts : Bureau, Chef d'atelier, Comptable / fiduciaire, Magasinier, Lecture seule. Les droits sont vérifiés par le serveur (pas seulement cachés), les menus et le tableau de bord s'adaptent |
 | 🕘 **Présences (comme Odoo)** | Gros bouton **Arrivée / Départ** (page Présences ou icône 🕘 de la barre du haut), **kiosque** avec photos de l'équipe, code PIN ou **badge**, message de bienvenue ; tableau de l'équipe en direct ; **rapports** heures prévues / travaillées / supplémentaires / retards, corrections par le responsable, export CSV ; départ automatique si oubli |
